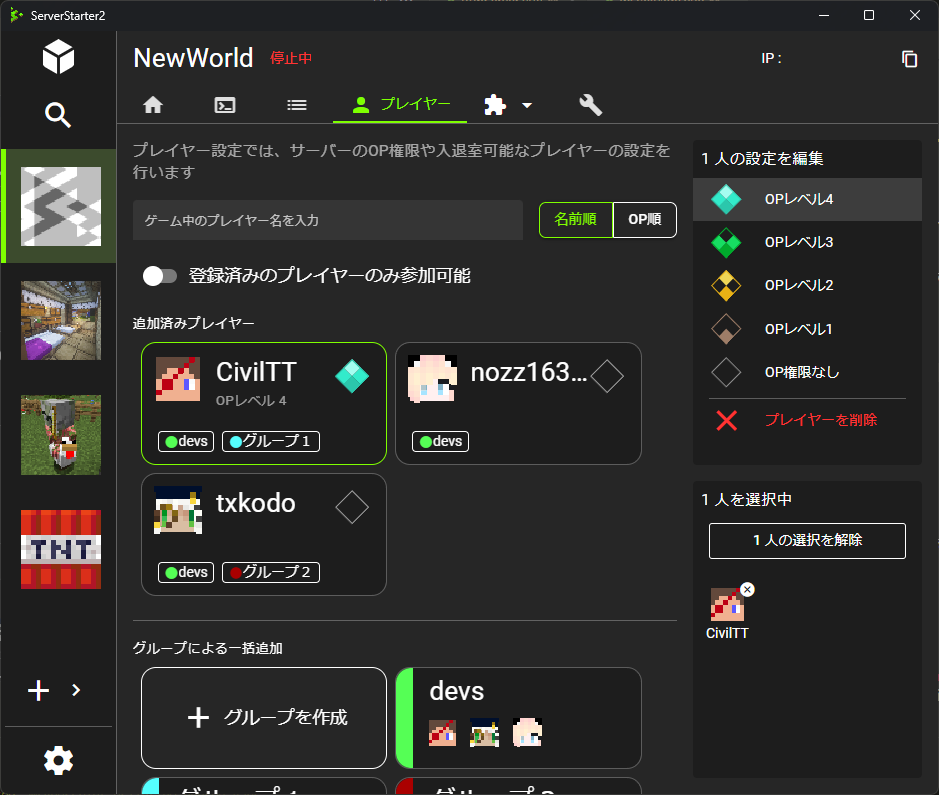
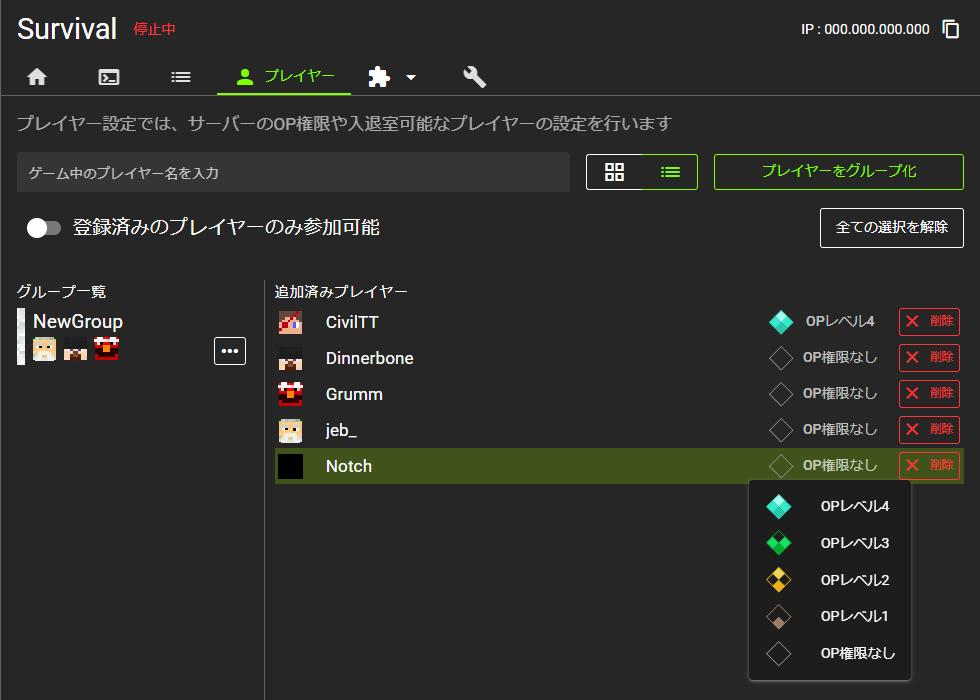
✨ v2.3.0 のリリースに合わせてスクリーンショットと説明を更新
- v2.3.0 の画面で古くなったスクリーンショットを撮り直し（メイン画面・サーバーの種類・既存ワールドの導入・ワールドフォルダ・コンソール・停止ボタンと道具箱・直前のサーバログ・OP権限・ホワイトリスト）
- 対応サーバーに NeoForge を追加（7種類）
- 道具箱（再起動・検索），プレイヤーのリスト表示，ワールドフォルダのプルダウン化，シングルワールドの読み込み先設定などに合わせて説明文を更新
- ロードマップの v2.3.0 の項目をリリース済み（2026-11-28）にし，シングルワールドの読み込み先設定と Apple Silicon 版 Mac 対応の項目を追加

diff --git a/src/i18n/ja/Pages/roadmap.ts b/src/i18n/ja/Pages/roadmap.ts
@@ -62,24 +62,24 @@ export const jaRoadmap = {
     neoforge: {
       title: 'NeoForgeに対応',
       summary:
-        'Forgeの後継として開発されているMODサーバー「NeoForge」でワールドを起動できるようになります',
+        'Forgeの後継として開発されているMODサーバー「NeoForge」でワールドを起動できるようになりました',
       detail: [
-        'ServerStarter2が対応するサーバーにNeoForgeが加わります！',
+        'ServerStarter2が対応するサーバーにNeoForgeが加わりました！',
         'NeoForgeはForgeから派生して開発が進められているMODサーバーで，最新のMinecraftに対応した多くのMODがNeoForge向けに公開されています',
         '「ホーム」タブの「サーバーの種類を選択」からNeoForgeを選び，バージョンとビルド番号を選択するだけで，他のサーバーと同様にワンクリックで起動できます',
         'なお，NeoForgeはForge向けのMODとの互換性がありません．導入するMODがNeoForgeに対応しているかをお確かめください',
       ],
       captions: {
-        serverTypes: 'サーバーの種類にNeoForgeが追加されます',
+        serverTypes: 'サーバーの種類にNeoForgeが追加されました',
         version: 'バージョンとビルド番号を選んで起動できます',
       },
     },
     'player-list': {
       title: 'プレイヤー設定のリスト表示とグループ編集',
       summary:
-        'プレイヤーの一覧をリスト形式で表示できるようになり，グループの作成・編集やOP権限の一括変更がしやすくなります',
+        'プレイヤーの一覧をリスト形式で表示できるようになり，グループの作成・編集やOP権限の一括変更がしやすくなりました',
       detail: [
-        '「プレイヤー」タブに，従来のカード表示に加えてリスト表示が追加されます',
+        '「プレイヤー」タブに，従来のカード表示に加えてリスト表示が追加されました',
         'リスト表示では画面の幅に関係なく多くのプレイヤーを一覧でき，プレイヤーの検索や名前での絞り込み，OP権限の変更をメニューから素早く行えます',
         '複数のプレイヤーを選択して「グループ化」すると，そのメンバーでグループを作成できます．グループの名前・カラー（Minecraftの16色）・メンバーはあとから自由に編集できます',
         '複数のプレイヤーを選択した状態でOP権限を変更すると，選択中の全員の権限をまとめて変更できます',
@@ -92,12 +92,12 @@ export const jaRoadmap = {
     console: {
       title: 'サーバーコンソールの見やすさを改善',
       summary:
-        'コンソールが見やすいフォントになり，ログの文字色の表示や検索，スクロール位置の保持に対応します',
+        'コンソールが見やすいフォントになり，ログの文字色の表示や検索，スクロール位置の保持に対応しました',
       detail: [
         'サーバーコンソールの表示を全面的に見直しました',
         '等幅で読みやすいフォントを標準とし，複数行にわたるログの区切りが分かりやすくなるように行間を調整しています',
-        'サーバーが出力するログの文字色をそのまま表示できるようになり，警告やエラーなどを見分けやすくなります',
-        'コンソール内の検索に対応したほか，過去のログを読んでいる間は新しいログが出力されてもスクロール位置が保たれるようになります．表示するワールドを切り替えても，それぞれのワールドのスクロール位置が復元されます',
+        'サーバーが出力するログの文字色をそのまま表示できるようになり，警告やエラーなどを見分けやすくなりました',
+        'コンソール内の検索に対応したほか，過去のログを読んでいる間は新しいログが出力されてもスクロール位置が保たれるようになりました．表示するワールドを切り替えても，それぞれのワールドのスクロール位置が復元されます',
       ],
       captions: {
         console: 'ログを見やすい等幅フォントで表示します',
@@ -107,9 +107,9 @@ export const jaRoadmap = {
     'contents-list': {
       title: '追加コンテンツ一覧の改善',
       summary:
-        'データパック・プラグイン・MODの一覧にリスト表示と検索が追加され，名前を省略せずに確認できるようになります',
+        'データパック・プラグイン・MODの一覧にリスト表示と検索が追加され，名前を省略せずに確認できるようになりました',
       detail: [
-        '「追加コンテンツ」タブにリスト表示が追加され，データパック・プラグイン・MODの名前を省略せずに確認できるようになります',
+        '「追加コンテンツ」タブにリスト表示が追加され，データパック・プラグイン・MODの名前を省略せずに確認できるようになりました',
         '名前や説明での絞り込み検索に対応したため，たくさんのMODを導入したワールドでも目的のコンテンツをすぐに見つけられます',
         'ワールドの保存先のフォルダに直接追加・削除したコンテンツも，タブを開いた時や再読み込みボタンを押した時に一覧へ反映されます',
       ],
@@ -126,17 +126,27 @@ export const jaRoadmap = {
     'world-folder-select': {
       title: 'ワールドフォルダの選択をプルダウン化',
       summary:
-        'ワールドの保存先をプルダウンメニューから選べるようになり，ワールドの読み込み中は専用の画面が表示されるようになります',
+        'ワールドの保存先をプルダウンメニューから選べるようになり，ワールドの読み込み中は専用の画面が表示されるようになりました',
     },
     'update-safety': {
       title: '自動アップデート失敗時の対策',
       summary:
         '自動アップデートに失敗した場合でもアップデートを繰り返さずに起動し，最新版のダウンロードページを案内します',
     },
+    'single-world-folder': {
+      title: 'シングルプレイのワールドの読み込み先を設定',
+      summary:
+        '「既存のワールドを導入」にシングルプレイのワールドが表示されない問題を修正し，ワールドを読み込むフォルダをシステム設定から追加・非表示にできるようにしました',
+    },
+    'mac-arch': {
+      title: 'Apple Silicon搭載のMacに対応',
+      summary:
+        'Apple Silicon（M1以降）とIntelのMacそれぞれに向けたアプリを用意し，お使いのMacに合った版をダウンロードできるようにしました',
+    },
     donation: {
       title: '寄付の受付窓口を設置',
       summary:
-        '広告を一切表示しないServerStarter2の開発を応援していただくための，寄付の窓口を設置します',
+        '広告を一切表示しないServerStarter2の開発を応援していただくための，寄付の窓口を設置しました',
     },
     'danger-warning': {
       title: '危険な操作に対する警告',

diff --git a/src/roadmap/items.ts b/src/roadmap/items.ts
@@ -36,8 +36,9 @@ export const roadmapItems: RoadmapItem[] = [
   // ---------- v2.3.0 ----------
   {
     id: 'neoforge',
-    status: 'developing',
+    status: 'released',
     version: '2.3.0',
+    releasedAt: '2026-11-28',
     major: true,
     media: [
       {
@@ -54,8 +55,9 @@ export const roadmapItems: RoadmapItem[] = [
   },
   {
     id: 'player-list',
-    status: 'developing',
+    status: 'released',
     version: '2.3.0',
+    releasedAt: '2026-11-28',
     major: true,
     media: [
       { src: `${IMG}/player-list/list.png`, caption: 'list' },
@@ -66,8 +68,9 @@ export const roadmapItems: RoadmapItem[] = [
   },
   {
     id: 'console',
-    status: 'developing',
+    status: 'released',
     version: '2.3.0',
+    releasedAt: '2026-11-28',
     major: true,
     media: [
       { src: `${IMG}/console/console.png`, caption: 'console' },
@@ -78,8 +81,9 @@ export const roadmapItems: RoadmapItem[] = [
   },
   {
     id: 'contents-list',
-    status: 'developing',
+    status: 'released',
     version: '2.3.0',
+    releasedAt: '2026-11-28',
     major: true,
     media: [
       { src: `${IMG}/contents-list/list.png`, caption: 'list' },
@@ -90,26 +94,44 @@ export const roadmapItems: RoadmapItem[] = [
   },
   {
     id: 'online-players',
-    status: 'developing',
+    status: 'released',
     version: '2.3.0',
+    releasedAt: '2026-11-28',
     issues: [270],
   },
   {
     id: 'world-folder-select',
-    status: 'developing',
+    status: 'released',
     version: '2.3.0',
+    releasedAt: '2026-11-28',
     issues: [192, 200],
   },
   {
     id: 'update-safety',
-    status: 'developing',
+    status: 'released',
     version: '2.3.0',
+    releasedAt: '2026-11-28',
     issues: [272, 144],
   },
   {
-    id: 'donation',
-    status: 'developing',
+    id: 'single-world-folder',
+    status: 'released',
     version: '2.3.0',
+    releasedAt: '2026-11-28',
+    issues: [278],
+  },
+  {
+    id: 'mac-arch',
+    status: 'released',
+    version: '2.3.0',
+    releasedAt: '2026-11-28',
+    issues: [283, 175],
+  },
+  {
+    id: 'donation',
+    status: 'released',
+    version: '2.3.0',
+    releasedAt: '2026-11-28',
     issues: [260],
   },
 

diff --git a/src/i18n/en-US/Pages/roadmap.ts b/src/i18n/en-US/Pages/roadmap.ts
@@ -55,7 +55,7 @@ export const enUSRoadmap: MessageSchema['roadmap'] = {
     neoforge: {
       title: 'NeoForge support',
       summary:
-        'You will be able to run worlds with NeoForge, a mod server developed as the successor to Forge.',
+        'You can now run worlds with NeoForge, a mod server developed as the successor to Forge.',
       detail: [
         'NeoForge joins the server types supported by ServerStarter2!',
         'NeoForge is a mod server forked from Forge, and many mods for the latest Minecraft are released for NeoForge.',
@@ -125,6 +125,16 @@ export const enUSRoadmap: MessageSchema['roadmap'] = {
       title: 'Safer automatic updates',
       summary:
         'Even if an automatic update fails, ServerStarter2 starts without repeating the update and guides you to the download page.',
+    },
+    'single-world-folder': {
+      title: 'Choose where to load single-player worlds',
+      summary:
+        'Fixed single-player worlds not appearing in "Import existing world", and you can now add or hide the folders to load them from in the system settings.',
+    },
+    'mac-arch': {
+      title: 'Apple Silicon Mac support',
+      summary:
+        'Separate apps are now provided for Apple Silicon (M1 or later) and Intel Macs, so you can download the one that fits your Mac.',
     },
     donation: {
       title: 'Donation page',

diff --git a/src/pages/features/CreateWorldPage.vue b/src/pages/features/CreateWorldPage.vue
@@ -60,6 +60,13 @@ import IndentLine from '@/components/utils/blocks/IndentLine.vue';
       また，PC内にMinecraftのシングルプレイワールドが存在する場合は，画面下部から導入したいワールドを選択して，マルチプレイをすることができます！<br />
       個人で発展させたワールドをご友人らと楽しむ際にぜひご活用ください
     </p>
+    <p>
+      シングルプレイのワールドは，Minecraft
+      Launcherの設定から自動で見つけたフォルダから読み込みます<br />
+      Minecraft
+      Launcher以外のランチャーを使っているなどで目的のワールドが表示されない場合は，「システム設定」の「ワールドフォルダ」タブにある「シングルプレイのワールドの読み込み先」に，ワールドが保存されているフォルダ（savesフォルダ）を追加してください<br />
+      ワールドが1件も見つからない場合は，導入画面に表示される「ワールドの読み込み先を設定」ボタンからこの設定画面を開くこともできます
+    </p>
   </ImgTxtBlock>
 
   <ImgTxtBlock

diff --git a/src/pages/Intro/JoinServer.vue b/src/pages/Intro/JoinServer.vue
@@ -92,7 +92,11 @@ import IndentLine from '@/components/utils/blocks/IndentLine.vue';
       ServerStarter2では，参加しているプレイヤーに特別な行動を許可するOP権限の管理が簡単にできる機能を提供しています！
     </p>
     <p>
-      プレイヤータブでOP権限を付与したいプレイヤーを追加し，付与する権限を選択するだけです！
+      プレイヤータブでOP権限を付与したいプレイヤーを追加し，プレイヤーの右側に表示されている現在の権限（「OP権限なし」など）をクリックして，付与する権限を選択するだけです！
+    </p>
+    <p>
+      複数のプレイヤーを選択して権限を変更すると，選択中の全員の権限をまとめて変更できます<br />
+      よく一緒に遊ぶメンバーは「プレイヤーをグループ化」でグループにしておくと，ほかのワールドにもまとめて追加できて便利です
     </p>
     <p>
       少人数のサーバーでコマンドを利用する場合や，大規模なサーバーの管理者に権限を与える場合などにご活用ください

diff --git a/src/pages/Intro/RunServer.vue b/src/pages/Intro/RunServer.vue
@@ -48,6 +48,10 @@ import ImgTxtBlock from '@/components/utils/blocks/ImgTxtBlock.vue';
       <SsStrong>say Hello</SsStrong>
       と入力すると，ゲーム内のプレイヤー全員に「Hello」というメッセージを送ることができます
     </p>
+    <p>
+      ログはサーバーが出力した文字色のまま表示されるため，警告やエラーも見分けやすくなっています<br />
+      過去のログを読んでいる間は，新しいログが出力されてもスクロール位置がそのまま保たれます
+    </p>
   </ImgTxtBlock>
 
   <ImgTxtBlock
@@ -60,6 +64,11 @@ import ImgTxtBlock from '@/components/utils/blocks/ImgTxtBlock.vue';
     </p>
     <p>
       データをきちんと保存するためにも，遊び終わったら必ず停止ボタンを押しましょう！
+    </p>
+    <p>
+      停止ボタンの隣にある<SsStrong>道具箱</SsStrong>からは，サーバーの
+      <SsStrong>再起動</SsStrong>や，コンソールに表示されたログの
+      <SsStrong>検索</SsStrong>ができます
     </p>
   </ImgTxtBlock>
 

diff --git a/src/pages/features/WorldSettingsPage.vue b/src/pages/features/WorldSettingsPage.vue
@@ -82,9 +82,10 @@ import ImgTxtBlock from '@/components/utils/blocks/ImgTxtBlock.vue';
     </ul>
     <p>
       このようなときは「その他の設定」タブにある「ワールドフォルダ」機能をご利用ください！<br />
-      保存先に指定したいフォルダを登録し，追加された保存先を指定するだけで保存先を変更することができます！
+      「＋」ボタンから保存先に指定したいフォルダを登録し，プルダウンメニューから保存先を選ぶだけで保存先を変更することができます！
     </p>
     <p>
+      歯車ボタンを押すと「システム設定」の「ワールドフォルダ」タブが開き，登録した保存先の一覧を管理できます<br />
       非表示ボタンを活用することで，普段は使わないワールドの保存先を非表示にして，ワールド一覧を整理することもできます
     </p>
   </ImgTxtBlock>

diff --git a/src/pages/features/ServersPage.vue b/src/pages/features/ServersPage.vue
@@ -102,8 +102,11 @@ const rows: ServerType[] = serverTypes;
           ServerStarter2ではサーバー種類に対応していない追加コンテンツは導入できないようになっているため，安心してご利用いただくことができます！
         </p>
         <p>
-          なお，ForgeやFabricは「前提MOD」と呼ばれるMODを導入するためにベースとなるサーバーの種類になりますので，
+          なお，Forge・NeoForge・Fabricは「前提MOD」と呼ばれるMODを導入するためにベースとなるサーバーの種類になりますので，
           ご利用のMODが対応しているサーバー種類をお確かめの上，ご利用ください
+        </p>
+        <p>
+          NeoForgeはForgeの後継として開発されているサーバーですが，Forge向けのMODとの互換性はありません．NeoForge向けのMODをご利用ください
         </p>
       </div>
     </div>

diff --git a/src/i18n/ja/Pages/home.ts b/src/i18n/ja/Pages/home.ts
@@ -24,6 +24,7 @@ export const jaHome = {
       spigot: 'Spigot',
       papermc: 'PaperMC',
       forge: 'Forge',
+      neoforge: 'NeoForge',
       mohistmc: 'MohistMC',
       fabric: 'Fabric',
     },
@@ -34,6 +35,8 @@ export const jaHome = {
         '代表的なサードパーティーサーバー。\nプラグインの導入ができるようになる。',
       papermc: 'Spigotをより軽量にしたサーバー。',
       forge: 'MODの前提サーバーとして、\n最も一般的なMODサーバー。',
+      neoforge:
+        'Forgeの後継サーバー。\nForge向けMODとの互換性はない新しいMODサーバー。',
       mohistmc:
         'Forgeをベースとしつつ、MODとプラグインの両者を導入可能としたサーバー。',
       fabric: 'MODの前提サーバー。\nForgeとは別のシステムとなっている。',

diff --git a/src/pages/Intro/InstallPage.vue b/src/pages/Intro/InstallPage.vue
@@ -142,10 +142,8 @@ import SsRouterBtn from '@/components/utils/base/btns/ssRouterBtn.vue';
           ServerStarter2では<SsStrong>ポート開放をせず</SsStrong>に，マルチプレイを楽しむことができます！
         </p>
         <p>
-          画面に表示されるセットアップ手順に従い，必要な設定を進めることができます
-        </p>
-        <p>
-          ※この手順をスキップした場合，<SsStrong>ホーム画面</SsStrong>で再登録することができます
+          <SsStrong>「ホーム」タブ</SsStrong
+          >にある「ポート開放不要の設定をする」ボタンを押し，画面に表示されるセットアップ手順に従って必要な設定を進めることができます
         </p>
       </div>
 

diff --git a/src/i18n/en-US/Pages/home.ts b/src/i18n/en-US/Pages/home.ts
@@ -23,6 +23,7 @@ export const enHome: MessageSchema['home'] = {
       spigot: 'Spigot',
       papermc: 'PaperMC',
       forge: 'Forge',
+      neoforge: 'NeoForge',
       mohistmc: 'MohistMC',
       fabric: 'Fabric',
     },
@@ -32,6 +33,8 @@ export const enHome: MessageSchema['home'] = {
       spigot: 'Typical third party server. \nAllows plugins to be installed.',
       papermc: 'A server that makes Spigot run more lightly.',
       forge: 'Most common servers that the base for mods.',
+      neoforge:
+        'Successor to Forge. \nA new mod server that is not compatible with Forge mods.',
       mohistmc:
         'Server based on Forge, but allows both mods and plugins to be installed.',
       fabric:

diff --git a/src/components/Pages/HOME/ImportWorldView.vue b/src/components/Pages/HOME/ImportWorldView.vue
@@ -5,7 +5,7 @@ import ImgTxtBlock from '@/components/utils/blocks/ImgTxtBlock.vue';
 <template>
   <ImgTxtBlock
     title="個人ワールドや配布マップもみんなで冒険 ！！"
-    imgPath="/assets/HOME/singleWorld.png"
+    imgPath="/assets/Features/createWorld/existWorld.png"
     btnTitle="ワールドのつくりかた"
     btnTo="/features/create-world"
   >
